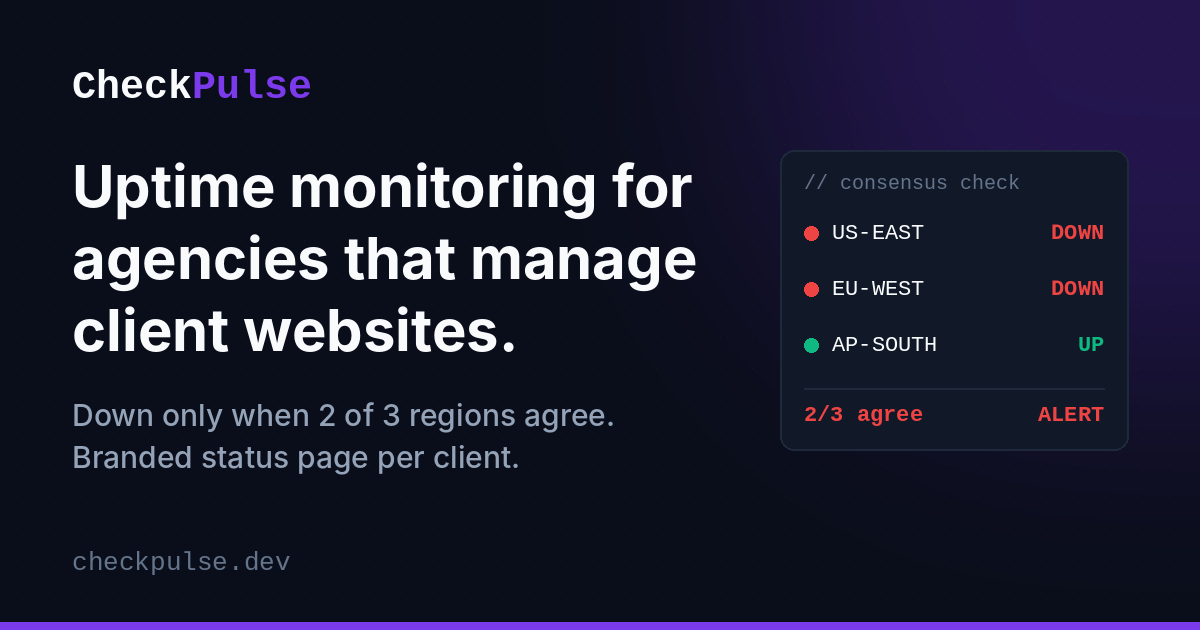
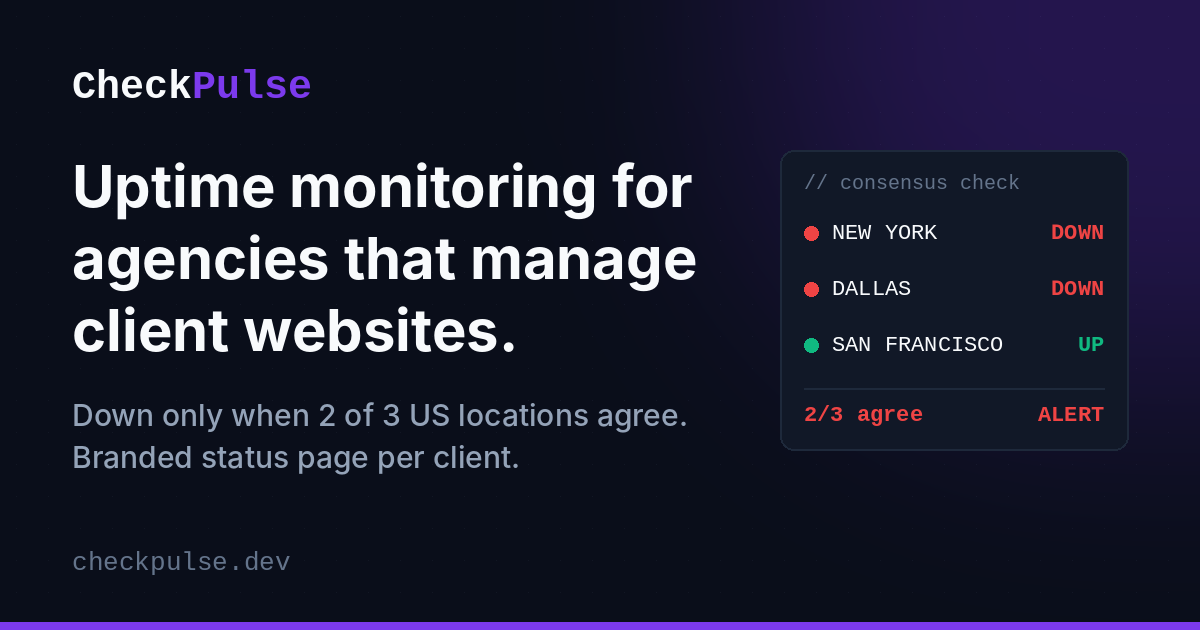
feat(copy): US-only check regions in public text, link the free tools
CP-1 moved checking to 3 US locations (New York, Dallas, San Francisco).
The public pages still said "US, EU and Asia".

- landing: features, alerts card, status-page demo, badge and terminal demo
  now name the 3 US locations; alert channels list matches the product
  (Slack, Discord, Telegram, email, webhook)
- landing: second hero button goes to /tools/site-check (no signup); nav
  links Site check; footer links Site check, SSL checker, vs UptimeRobot;
  footer wraps on phones
- _seo_head description + og alt, getting_started, vs_uptimerobot and the
  compare.py rows: 3 US locations
- legal section 6: check workers run in the United States
- og.png regenerated with NEW YORK / DALLAS / SAN FRANCISCO

Tests (swe-01): DB suite 116 passed; full suite 331 passed, 1 failed
(tests/test_health.py, the known local failure without live Postgres/Redis).
Rendered at 390px and 1440px: terminal labels aligned, footer wraps.

Do not deploy before CP-1 step F (us-central/us-west voting, eu/asia off),
or the page would describe regions that are not voting yet.

diff --git a/app/templates/landing.html b/app/templates/landing.html
@@ -818,7 +818,7 @@
             color: var(--text);
         }
         .footer-logo span { color: var(--primary); }
-        .footer-links { display: flex; gap: 24px; }
+        .footer-links { display: flex; flex-wrap: wrap; justify-content: center; gap: 12px 24px; }
         .footer-links a {
             font-size: 0.8125rem;
             color: var(--text-dim);
@@ -918,6 +918,7 @@
             <div class="nav-links" id="nav-links">
                 <a href="#features">Features</a>
                 <a href="#pricing">Pricing</a>
+                <a href="/tools/site-check">Site check</a>
                 <a href="/docs/getting-started">Docs</a>
                 <a href="/dashboard/login">Login</a>
                 <a href="/dashboard/register" class="btn btn-primary nav-cta">Start Free</a>
@@ -934,9 +935,9 @@
                     <p class="hero-sub">Catch uptime, DNS, SSL, and regional latency issues across client sites before your clients do.</p>
                     <div class="hero-ctas">
                         <a href="/dashboard/register" class="btn btn-primary btn-large">Start Free</a>
-                        <a href="#how-it-works" class="btn btn-outline btn-large">See How It Works</a>
+                        <a href="/tools/site-check" class="btn btn-outline btn-large">Check 10 client sites free</a>
                     </div>
-                    <p class="hero-trust">Free to start. No credit card required.</p>
+                    <p class="hero-trust">Free to start. No credit card required. The site check needs no signup.</p>
                 </div>
                 <div class="terminal">
                     <div class="terminal-bar">
@@ -947,15 +948,15 @@
                     </div>
                     <div class="terminal-body" id="terminal-body">
                         <div class="terminal-line"><span class="cmd">$ checkpulse check --all-sites</span></div>
-                        <div class="terminal-line"><span class="region">[US-East] </span> <span class="ok">&#10003;</span> acme-client.com &nbsp;&nbsp;&nbsp;&nbsp;&nbsp; <span class="dim">142ms</span> &nbsp;<span class="ok">200 OK</span></div>
-                        <div class="terminal-line"><span class="region">[EU-West] </span> <span class="ok">&#10003;</span> acme-client.com &nbsp;&nbsp;&nbsp;&nbsp;&nbsp; <span class="dim">198ms</span> &nbsp;<span class="ok">200 OK</span></div>
-                        <div class="terminal-line"><span class="region">[AP-South]</span> <span class="ok">&#10003;</span> acme-client.com &nbsp;&nbsp;&nbsp;&nbsp;&nbsp; <span class="dim">231ms</span> &nbsp;<span class="ok">200 OK</span></div>
-                        <div class="terminal-line"><span class="region">[US-East] </span> <span class="ok">&#10003;</span> studio-portfolio.net &nbsp;<span class="dim">&nbsp;87ms</span> &nbsp;<span class="ok">200 OK</span></div>
-                        <div class="terminal-line"><span class="region">[EU-West] </span> <span class="ok">&#10003;</span> studio-portfolio.net &nbsp;<span class="dim">104ms</span> &nbsp;<span class="ok">200 OK</span></div>
-                        <div class="terminal-line"><span class="region">[US-East] </span> <span class="fail">&#10007;</span> boutique-shop.co &nbsp;&nbsp;&nbsp;&nbsp; <span class="dim">&nbsp;&mdash; </span> &nbsp;<span class="fail">DNS timeout</span></div>
-                        <div class="terminal-line"><span class="region">[EU-West] </span> <span class="fail">&#10007;</span> boutique-shop.co &nbsp;&nbsp;&nbsp;&nbsp; <span class="dim">&nbsp;&mdash; </span> &nbsp;<span class="fail">DNS timeout</span></div>
+                        <div class="terminal-line"><span class="region">[NY]&nbsp;&nbsp;&nbsp;&nbsp;</span> <span class="ok">&#10003;</span> acme-client.com &nbsp;&nbsp;&nbsp;&nbsp;&nbsp; <span class="dim">142ms</span> &nbsp;<span class="ok">200 OK</span></div>
+                        <div class="terminal-line"><span class="region">[Dallas]</span> <span class="ok">&#10003;</span> acme-client.com &nbsp;&nbsp;&nbsp;&nbsp;&nbsp; <span class="dim">198ms</span> &nbsp;<span class="ok">200 OK</span></div>
+                        <div class="terminal-line"><span class="region">[SF]&nbsp;&nbsp;&nbsp;&nbsp;</span> <span class="ok">&#10003;</span> acme-client.com &nbsp;&nbsp;&nbsp;&nbsp;&nbsp; <span class="dim">231ms</span> &nbsp;<span class="ok">200 OK</span></div>
+                        <div class="terminal-line"><span class="region">[NY]&nbsp;&nbsp;&nbsp;&nbsp;</span> <span class="ok">&#10003;</span> studio-portfolio.net &nbsp;<span class="dim">&nbsp;87ms</span> &nbsp;<span class="ok">200 OK</span></div>
+                        <div class="terminal-line"><span class="region">[Dallas]</span> <span class="ok">&#10003;</span> studio-portfolio.net &nbsp;<span class="dim">104ms</span> &nbsp;<span class="ok">200 OK</span></div>
+                        <div class="terminal-line"><span class="region">[NY]&nbsp;&nbsp;&nbsp;&nbsp;</span> <span class="fail">&#10007;</span> boutique-shop.co &nbsp;&nbsp;&nbsp;&nbsp; <span class="dim">&nbsp;&mdash; </span> &nbsp;<span class="fail">DNS timeout</span></div>
+                        <div class="terminal-line"><span class="region">[Dallas]</span> <span class="fail">&#10007;</span> boutique-shop.co &nbsp;&nbsp;&nbsp;&nbsp; <span class="dim">&nbsp;&mdash; </span> &nbsp;<span class="fail">DNS timeout</span></div>
                         <div class="terminal-line">&nbsp;</div>
-                        <div class="terminal-line"><span class="warn">&#9888; Incident created:</span> <span class="text">boutique-shop.co DNS failing (2/3 regions)</span></div>
+                        <div class="terminal-line"><span class="warn">&#9888; Incident created:</span> <span class="text">boutique-shop.co DNS failing (2/3 locations)</span></div>
                         <div class="terminal-line"><span class="dim">&nbsp;&nbsp;&#8627; Slack alert sent to #client-ops</span></div>
                         <div class="terminal-line"><span class="dim">&nbsp;&nbsp;&#8627; Status page updated</span></div>
                         <div class="terminal-line cursor-blink"><span class="cmd">$</span></div>
@@ -1027,14 +1028,14 @@
                         <svg fill="none" stroke="currentColor" viewBox="0 0 24 24" stroke-width="2"><path stroke-linecap="round" stroke-linejoin="round" d="M3.055 11H5a2 2 0 012 2v1a2 2 0 002 2 2 2 0 012 2v2.945M8 3.935V5.5A2.5 2.5 0 0010.5 8h.5a2 2 0 012 2 2 2 0 104 0 2 2 0 012-2h1.064M15 20.488V18a2 2 0 012-2h3.064M21 12a9 9 0 11-18 0 9 9 0 0118 0z"/></svg>
                     </div>
                     <h3>Regional latency</h3>
-                    <p>Checks run from the US, Europe, and Asia. Understand whether slowness is global or isolated before escalating the wrong thing.</p>
+                    <p>Checks run from New York, Dallas and San Francisco. See whether slowness is everywhere or one location before escalating the wrong thing.</p>
                 </div>
                 <div class="feature-card fade-in stagger-5">
                     <div class="feature-icon purple">
                         <svg fill="none" stroke="currentColor" viewBox="0 0 24 24" stroke-width="2"><path stroke-linecap="round" stroke-linejoin="round" d="M15 17h5l-1.405-1.405A2.032 2.032 0 0118 14.158V11a6.002 6.002 0 00-4-5.659V5a2 2 0 10-4 0v.341C7.67 6.165 6 8.388 6 11v3.159c0 .538-.214 1.055-.595 1.436L4 17h5m6 0v1a3 3 0 11-6 0v-1m6 0H9"/></svg>
                     </div>
                     <h3>Smart alerts</h3>
-                    <p>Slack, email, or webhook &mdash; routed per site so the right person sees it. We only alert when 2 of 3 regions confirm the issue, so you don't get paged for a flaky route.</p>
+                    <p>Slack, Discord, Telegram, email or webhook, routed per site so the right person sees it. We only alert when 2 of 3 locations confirm the issue, so you don't get paged for a flaky route.</p>
                 </div>
                 <div class="feature-card fade-in stagger-6">
                     <div class="feature-icon cyan">
@@ -1136,7 +1137,7 @@
                     </div>
                     <div class="trust-platform">
                         <div class="trust-platform-dot"></div>
-                        <span class="trust-platform-text">Checks running from 3 regions &middot; US, EU, Asia</span>
+                        <span class="trust-platform-text">Checks running from 3 US locations &middot; NY, Dallas, SF</span>
                     </div>
                 </div>
             </div>
@@ -1220,7 +1221,7 @@
             <div class="badges fade-in">
                 <div class="badge">
                     <svg fill="none" stroke="currentColor" viewBox="0 0 24 24" stroke-width="2"><path stroke-linecap="round" stroke-linejoin="round" d="M3.055 11H5a2 2 0 012 2v1a2 2 0 002 2 2 2 0 012 2v2.945M8 3.935V5.5A2.5 2.5 0 0010.5 8h.5a2 2 0 012 2 2 2 0 104 0 2 2 0 012-2h1.064M15 20.488V18a2 2 0 012-2h3.064M21 12a9 9 0 11-18 0 9 9 0 0118 0z"/></svg>
-                    Checks from 3 regions
+                    Checks from 3 US locations
                 </div>
                 <div class="badge">
                     <svg fill="none" stroke="currentColor" viewBox="0 0 24 24" stroke-width="2"><path stroke-linecap="round" stroke-linejoin="round" d="M13 10V3L4 14h7v7l9-11h-7z"/></svg>
@@ -1259,6 +1260,9 @@
                 <div class="footer-links">
                     <a href="#features">Features</a>
                     <a href="#pricing">Pricing</a>
+                    <a href="/tools/site-check">Site check</a>
+                    <a href="/tools/ssl-checker">SSL checker</a>
+                    <a href="/vs/uptimerobot">vs UptimeRobot</a>
                     <a href="/docs/getting-started">Docs</a>
                     <a href="/dashboard/login">Login</a>
                     <a href="/legal/privacy">Privacy</a>

diff --git a/app/templates/_seo_head.html b/app/templates/_seo_head.html
@@ -3,7 +3,7 @@
     Defaults describe the product, so a page that forgets to set them still
     unfurls sensibly in Slack/Discord/Reddit instead of a bare title. -#}
 {%- set _title = seo_title | default("CheckPulse: uptime monitoring for agencies managing client websites") -%}
-{%- set _desc = seo_description | default("Uptime, SSL and DNS monitoring for web agencies. Checks from the US, EU and Asia, marked down only when 2 of 3 regions agree, with a branded status page per client.") -%}
+{%- set _desc = seo_description | default("Uptime, SSL and DNS monitoring for web agencies. Checks from 3 US locations, marked down only when 2 of 3 agree, with a branded status page per client.") -%}
 {%- set _path = seo_path | default(request.url.path if request is defined and request else "/") -%}
 {%- set _url = "https://checkpulse.dev" ~ _path -%}
 {%- if _path.startswith("/dashboard") %}
@@ -19,7 +19,7 @@
 <meta property="og:image" content="https://checkpulse.dev/static/og.png">
 <meta property="og:image:width" content="1200">
 <meta property="og:image:height" content="630">
-<meta property="og:image:alt" content="CheckPulse: uptime monitoring for agencies. Down only when 2 of 3 regions agree.">
+<meta property="og:image:alt" content="CheckPulse: uptime monitoring for agencies. Down only when 2 of 3 locations agree.">
 <meta name="twitter:card" content="summary_large_image">
 <meta name="twitter:title" content="{{ _title }}">
 <meta name="twitter:description" content="{{ _desc }}">

diff --git a/app/templates/legal.html b/app/templates/legal.html
@@ -86,7 +86,7 @@
 
         <section>
             <h2 class="font-mono text-xl text-ink mt-8 mb-3">// 6. International transfers</h2>
-            <p>Our service is operated from <strong class="text-ink">the State of Delaware, USA</strong>. Our regional check workers run in the United States, Europe, and Asia. If you are located outside <strong class="text-ink">the State of Delaware, USA</strong>, your data may be transferred to and processed in any of these regions. Where required by law, we rely on Standard Contractual Clauses or equivalent safeguards.</p>
+            <p>Our service is operated from <strong class="text-ink">the State of Delaware, USA</strong>. Our regional check workers run in the United States. If you are located outside <strong class="text-ink">the State of Delaware, USA</strong>, your data may be transferred to and processed in the United States. Where required by law, we rely on Standard Contractual Clauses or equivalent safeguards.</p>
         </section>
 
         <section>

diff --git a/app/templates/vs_uptimerobot.html b/app/templates/vs_uptimerobot.html
@@ -26,7 +26,7 @@
             </div>
             <div class="bc-card p-5 border-brand/30">
                 <p class="font-mono text-xs uppercase tracking-wider text-brand">CheckPulse</p>
-                <p class="mt-2 text-sm">Every interval, the site is checked from the US, the EU and Asia. It is marked down only when at least 2 of the 3 regions see it fail. One region's network having a bad minute does not open an incident or send an alert.</p>
+                <p class="mt-2 text-sm">Every interval, the site is checked from 3 US locations: New York, Dallas and San Francisco. It is marked down only when at least 2 of the 3 see it fail. One location's network having a bad minute does not open an incident or send an alert.</p>
                 <p class="mt-3 text-xs text-ink-dim">The rule is one line in the scheduler: down when 2 or more regions report down.</p>
             </div>
         </div>

diff --git a/app/templates/getting_started.html b/app/templates/getting_started.html
@@ -433,7 +433,7 @@
                     <li><strong>Expected Status</strong> &mdash; The HTTP status code that means "up" (default: 200)</li>
                     <li><strong>Interval</strong> &mdash; How often to check, in seconds (depends on your plan)</li>
                 </ul>
-                <p>Once created, CheckPulse runs the check from 3 regions (US, EU, Asia) automatically. A monitor is only marked <strong>down</strong> when 2+ regions confirm the failure &mdash; so a flaky route in one region won't wake you up at 3am.</p>
+                <p>Once created, CheckPulse runs the check from 3 US locations (New York, Dallas, San Francisco) automatically. A monitor is only marked <strong>down</strong> when 2 of the 3 confirm the failure, so a flaky route at one location won't wake you up at 3am.</p>
             </div>
         </section>
 

diff --git a/scripts/make_og_image.py b/scripts/make_og_image.py
@@ -56,14 +56,14 @@ d.text((72, 150), "Uptime monitoring for", font=f(SANS_B, 58), fill=INK)
 d.text((72, 222), "agencies that manage", font=f(SANS_B, 58), fill=INK)
 d.text((72, 294), "client websites.", font=f(SANS_B, 58), fill=INK)
 
-d.text((72, 396), "Down only when 2 of 3 regions agree.", font=f(SANS_M, 30), fill=MUTED)
+d.text((72, 396), "Down only when 2 of 3 US locations agree.", font=f(SANS_M, 30), fill=MUTED)
 d.text((72, 438), "Branded status page per client.", font=f(SANS_M, 30), fill=MUTED)
 
 # region consensus card
 cx, cy, cw, ch = 780, 150, 348, 300
 d.rounded_rectangle((cx, cy, cx + cw, cy + ch), radius=14, fill=CARD, outline=LINE, width=2)
 d.text((cx + 24, cy + 22), "// consensus check", font=f(MONO, 20), fill=DIM)
-rows = [("US-EAST", "DOWN", BAD), ("EU-WEST", "DOWN", BAD), ("AP-SOUTH", "UP", OK)]
+rows = [("NEW YORK", "DOWN", BAD), ("DALLAS", "DOWN", BAD), ("SAN FRANCISCO", "UP", OK)]
 for i, (region, state, col) in enumerate(rows):
     y = cy + 70 + i * 56
     d.ellipse((cx + 24, y + 6, cx + 38, y + 20), fill=col)

diff --git a/app/api/routes/compare.py b/app/api/routes/compare.py
@@ -16,8 +16,8 @@ router = APIRouter()
 CHECKED = "Oct 2, 2026"
 
 UPTIMEROBOT_ROWS = [
-    ("Down when", "any single region fails 3 retries", "2 of 3 regions (US, EU, Asia) agree"),
-    ("Check regions", "North America, Europe, Asia, Oceania", "US, EU, Asia"),
+    ("Down when", "any single region fails 3 retries", "2 of 3 US locations (NY, Dallas, SF) agree"),
+    ("Check regions", "North America, Europe, Asia, Oceania", "3 US locations: New York, Dallas, San Francisco"),
     ("50 sites at 60s or faster", "Solo 50: $28/mo, 60s", "Pro: $49/mo, 200 monitors, 30s"),
     ("Branded status pages", "3 on Solo, 100 on Team ($46/mo)", "1 per project: 10 on Starter, 50 on Pro"),
     ("Custom domain on status page", "Yes, Solo and up", "No"),
